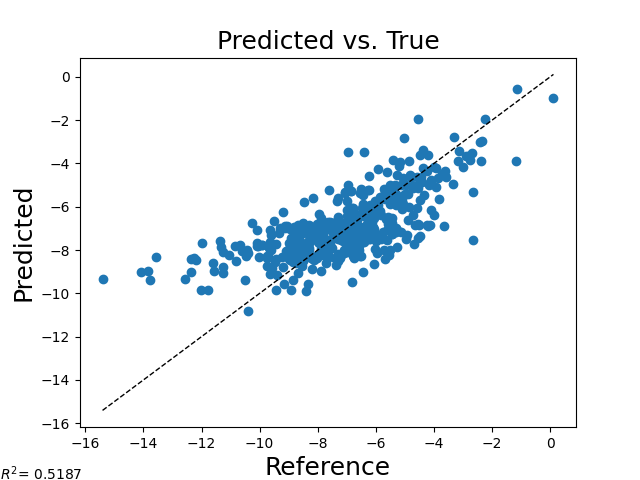
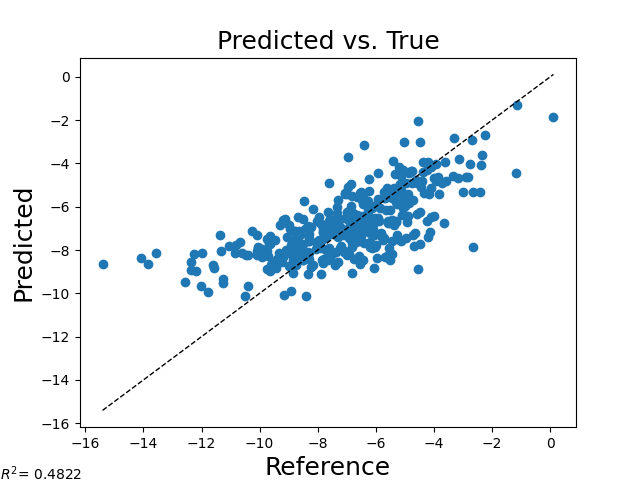
change argv

diff --git a/CODE_2/run_main_triton.py b/CODE_2/run_main_triton.py
@@ -9,7 +9,7 @@ import sys
 
 # the main for executing the whole code, Generates the chosen descriptors and
 # runs the KRR script. Generates a summary of the results.
-def main(seed):
+def main(seed, desc):
     ###############
     t_0 = perf_counter_ns() # store starting time of the whole script
     #create new output file (if it exists, it is erased)
@@ -38,15 +38,12 @@ def main(seed):
 
     ###############
     # run KRR model
-    desc = 'MACCS_with_simpol'
     target = 'log_p_sat'
-    iters = 10
 
     t_0_lumiaro = perf_counter_ns() # store the start time
 
     krr_edited_geckoq_triton.main(desc, target, seed)
-
-    if (iters == 10): summarizer(desc, target, 'geckoq')
+    #if (iters == 10): summarizer(desc, target, 'geckoq')
     ###############
     #compute test error values
     ###############
@@ -77,4 +74,4 @@ def main(seed):
     print('The total runtime of the script is: ', runtime_total, ' s\n')
 
 if __name__ == "__main__":
-    main(int(sys.argv[1]))
+    main(int(sys.argv[1]), str(sys.argv[2]))

diff --git a/CODE_2/model_scripts/krr_edited_geckoq_triton.py b/CODE_2/model_scripts/krr_edited_geckoq_triton.py
@@ -24,7 +24,7 @@ def krr_regr(descriptor, seed):
 
     # training sizes for producing learning curve (in increasing order)
     train_sizes = [4633, 9267, 13900, 18534, 23167, 27801]
-    #train_sizes = [27801]
+    #train_sizes = [46, 92, 139, 185, 500, 1000]
 
     # parameters 
     kernel_used = 'rbf' # kernel used in KRR ('rbf'- Gaussian, 'laplacian'- Laplacian)
